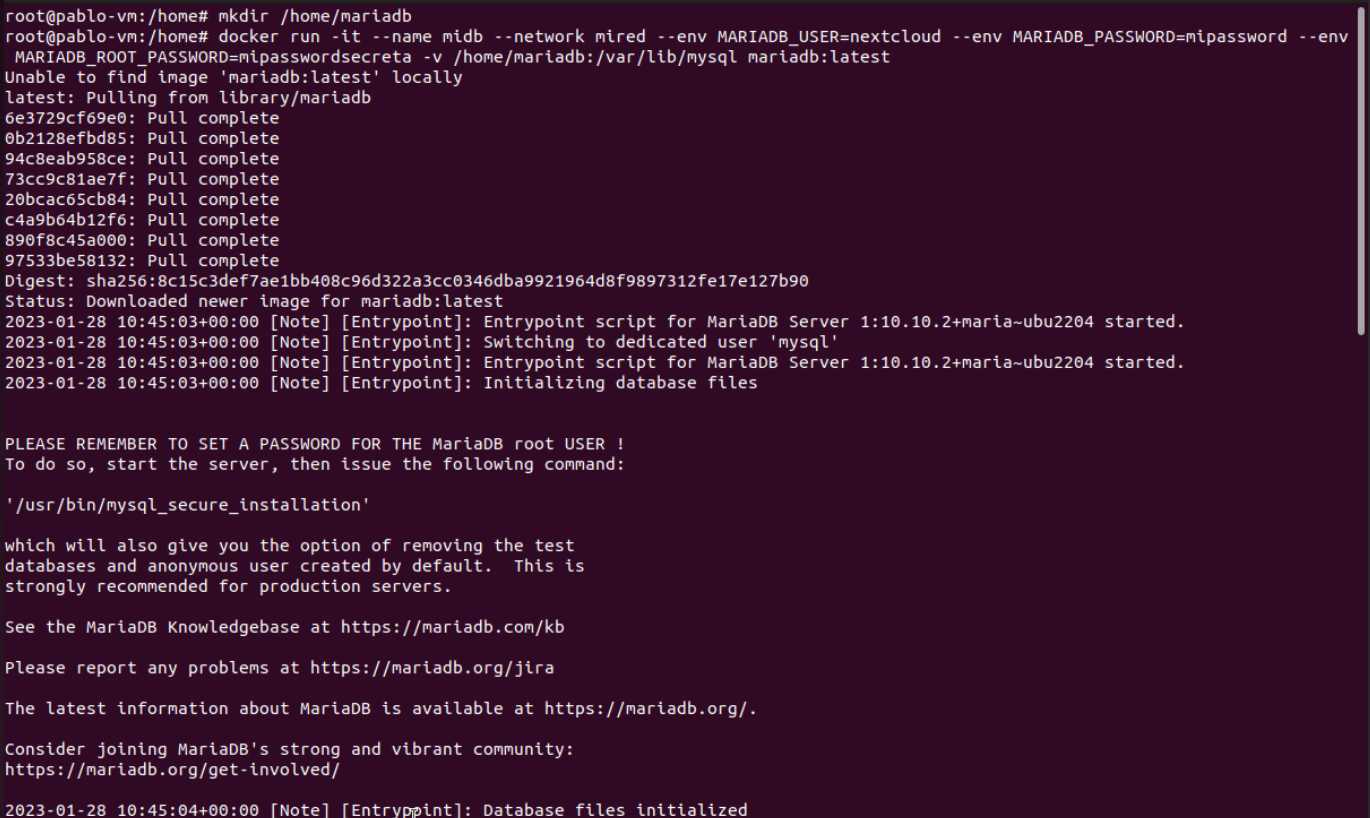
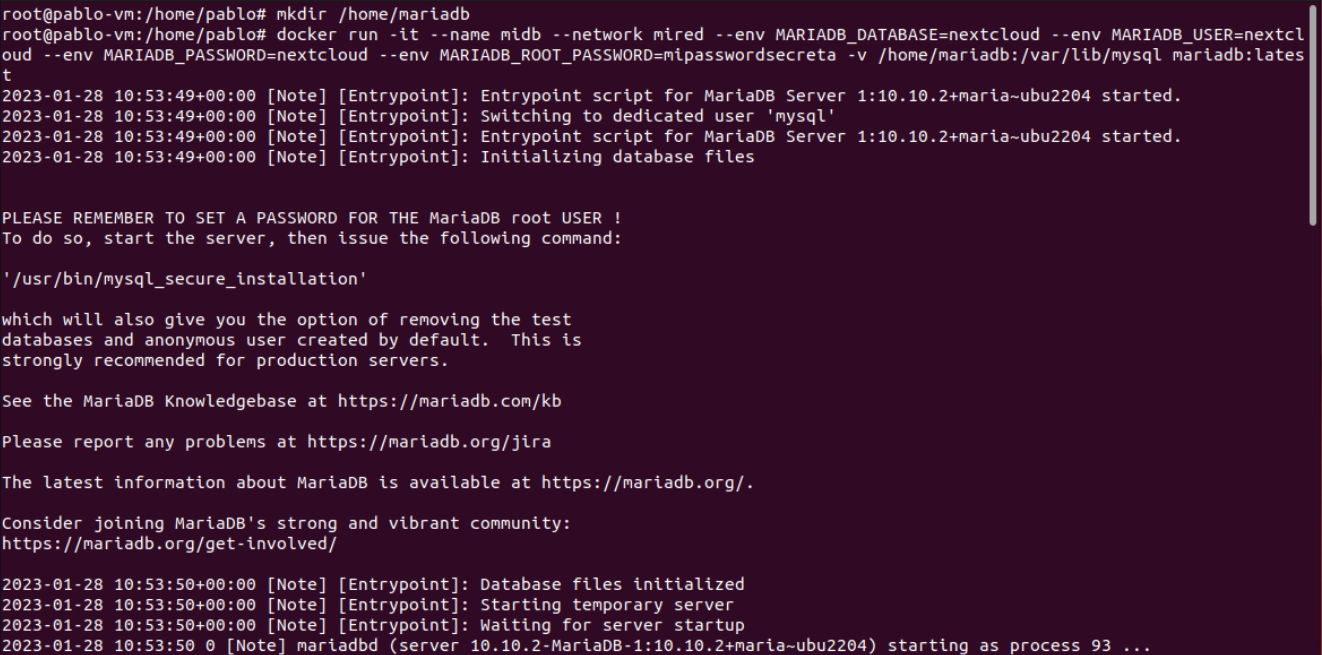
Tema 4 Ejercicio 8

Changed region(s): [[0.0, 0.0, 1.0, 1.0], [0.9924, 0.8855, 1.0, 1.0]]

diff --git a/TEMA 4/DOCKERT4.md b/TEMA 4/DOCKERT4.md
@@ -125,7 +125,7 @@ Vamos a desplegar la aplicación nextcloud con una base de datos (puedes elegir 
 
    ```sh
    mkdir /home/mariadb
-   docker run -it --name midb --network mired --e MARIADB_USER=nextcloud --env MARIADB_PASSWORD=mipassword MARIADB_ROOT_PASSWORD=mipasswordsecreta -v /home/mariadb:/var/lib/mysql mariadb:latest
+   docker run -it --name midb --network mired --env MARIADB_DATABASE=nextcloud --e MARIADB_USER=nextcloud --env MARIADB_PASSWORD=nextcloud MARIADB_ROOT_PASSWORD=mipasswordsecreta -v /home/mariadb:/var/lib/mysql mariadb:latest
    ```
 
    ![](assets/ej7.png)
@@ -134,7 +134,14 @@ Vamos a desplegar la aplicación nextcloud con una base de datos (puedes elegir 
 
 3. **A continuación, siguiendo la documentación de la imagen nextcloud , crea un contenedor conectado a la misma red, e indica las variables adecuadas para que se configure de forma adecuada y realice la conexión a la base de datos. El contenedor también debe ser persistente usando almacenamiento.** 
 
+   ```sh
+   mkdir /home/nextcloud
+   docker run -d -v /home/nextcloud:/var/www/html --network mired  --env MYSQL_HOST=midb --env MYSQL_DATABASE=nextcloud --env MYSQL_USER=nextcloud --env MYSQL_PASSWORD=mipassword nextcloud
+   ```
 
+   ![](./assets/ej8.png)
+
+   Inicializamos nextcloud.
 
 4. **Accede a la aplicación usando un navegador web. **
 
